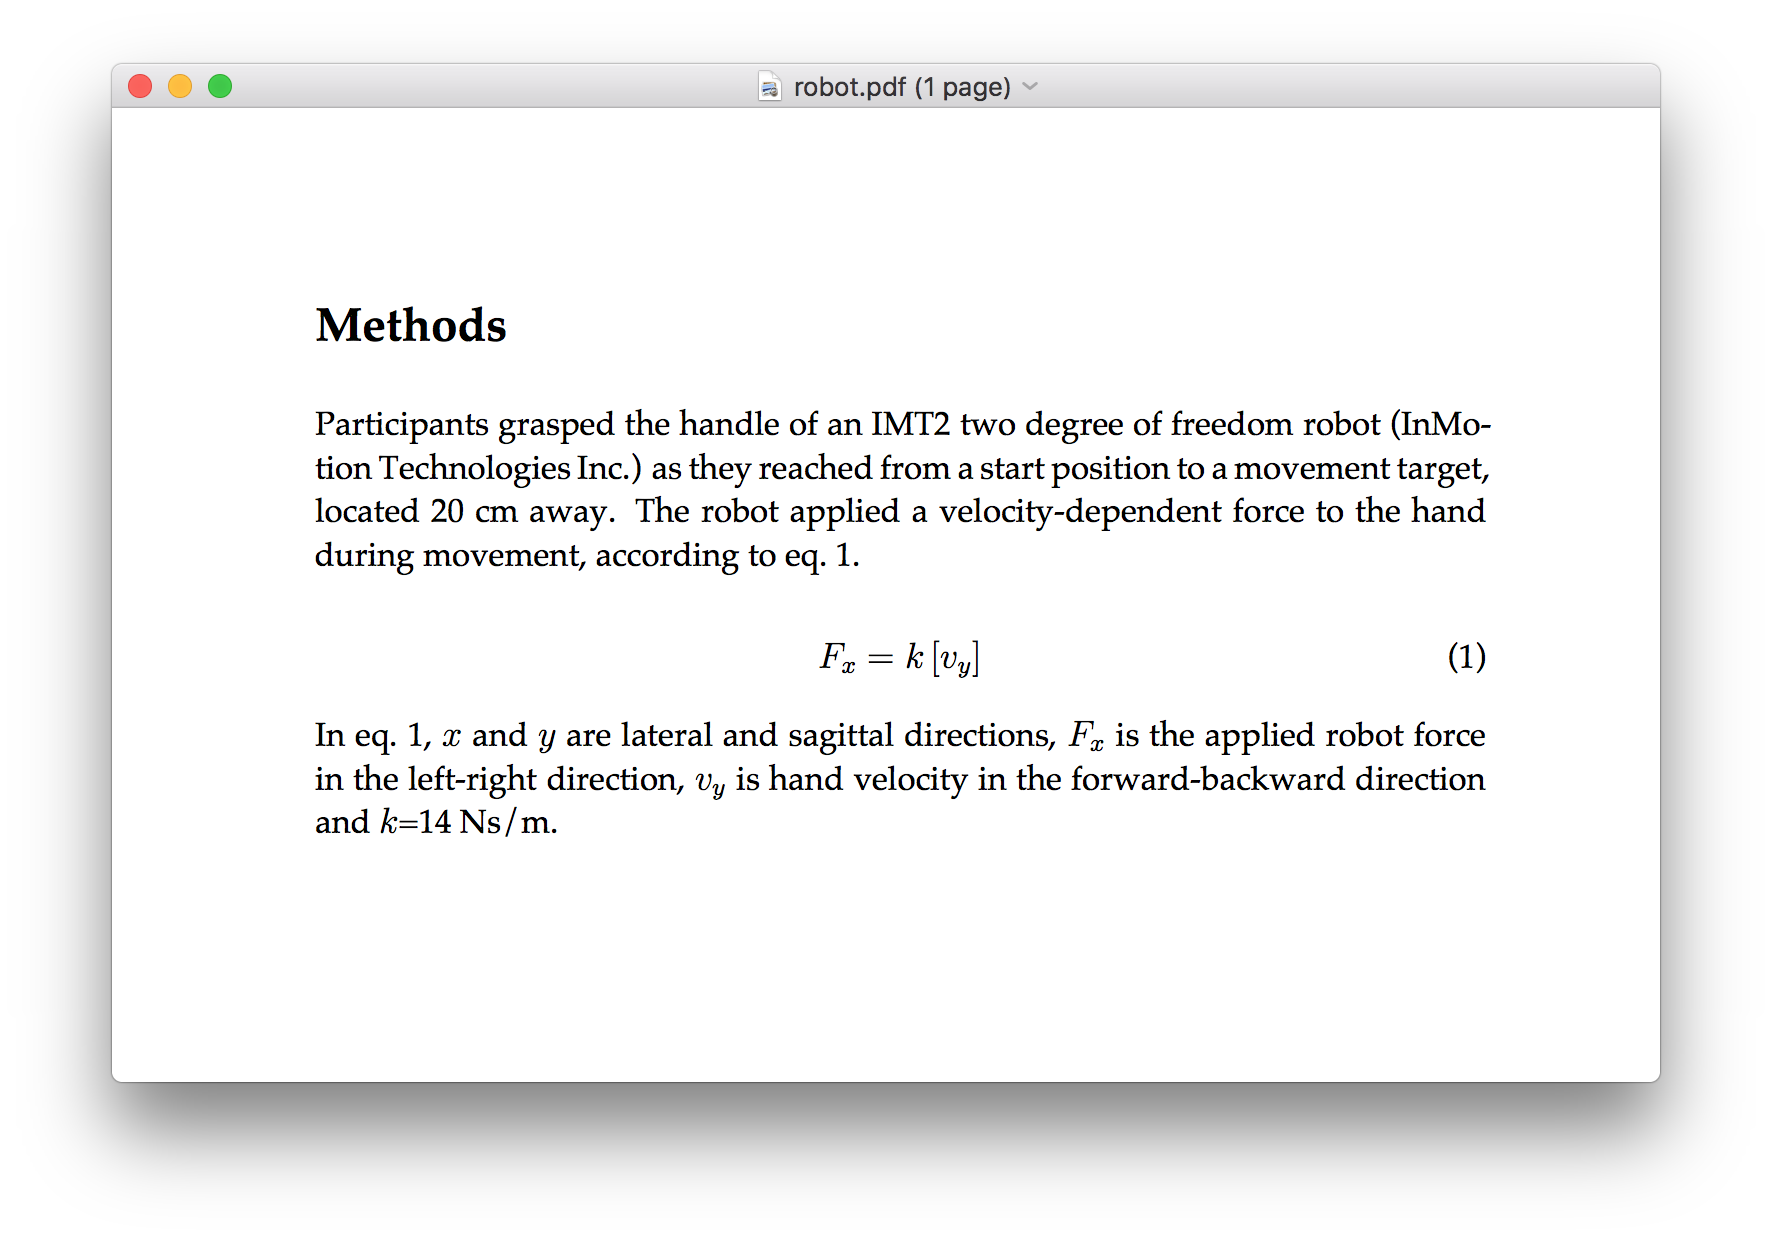
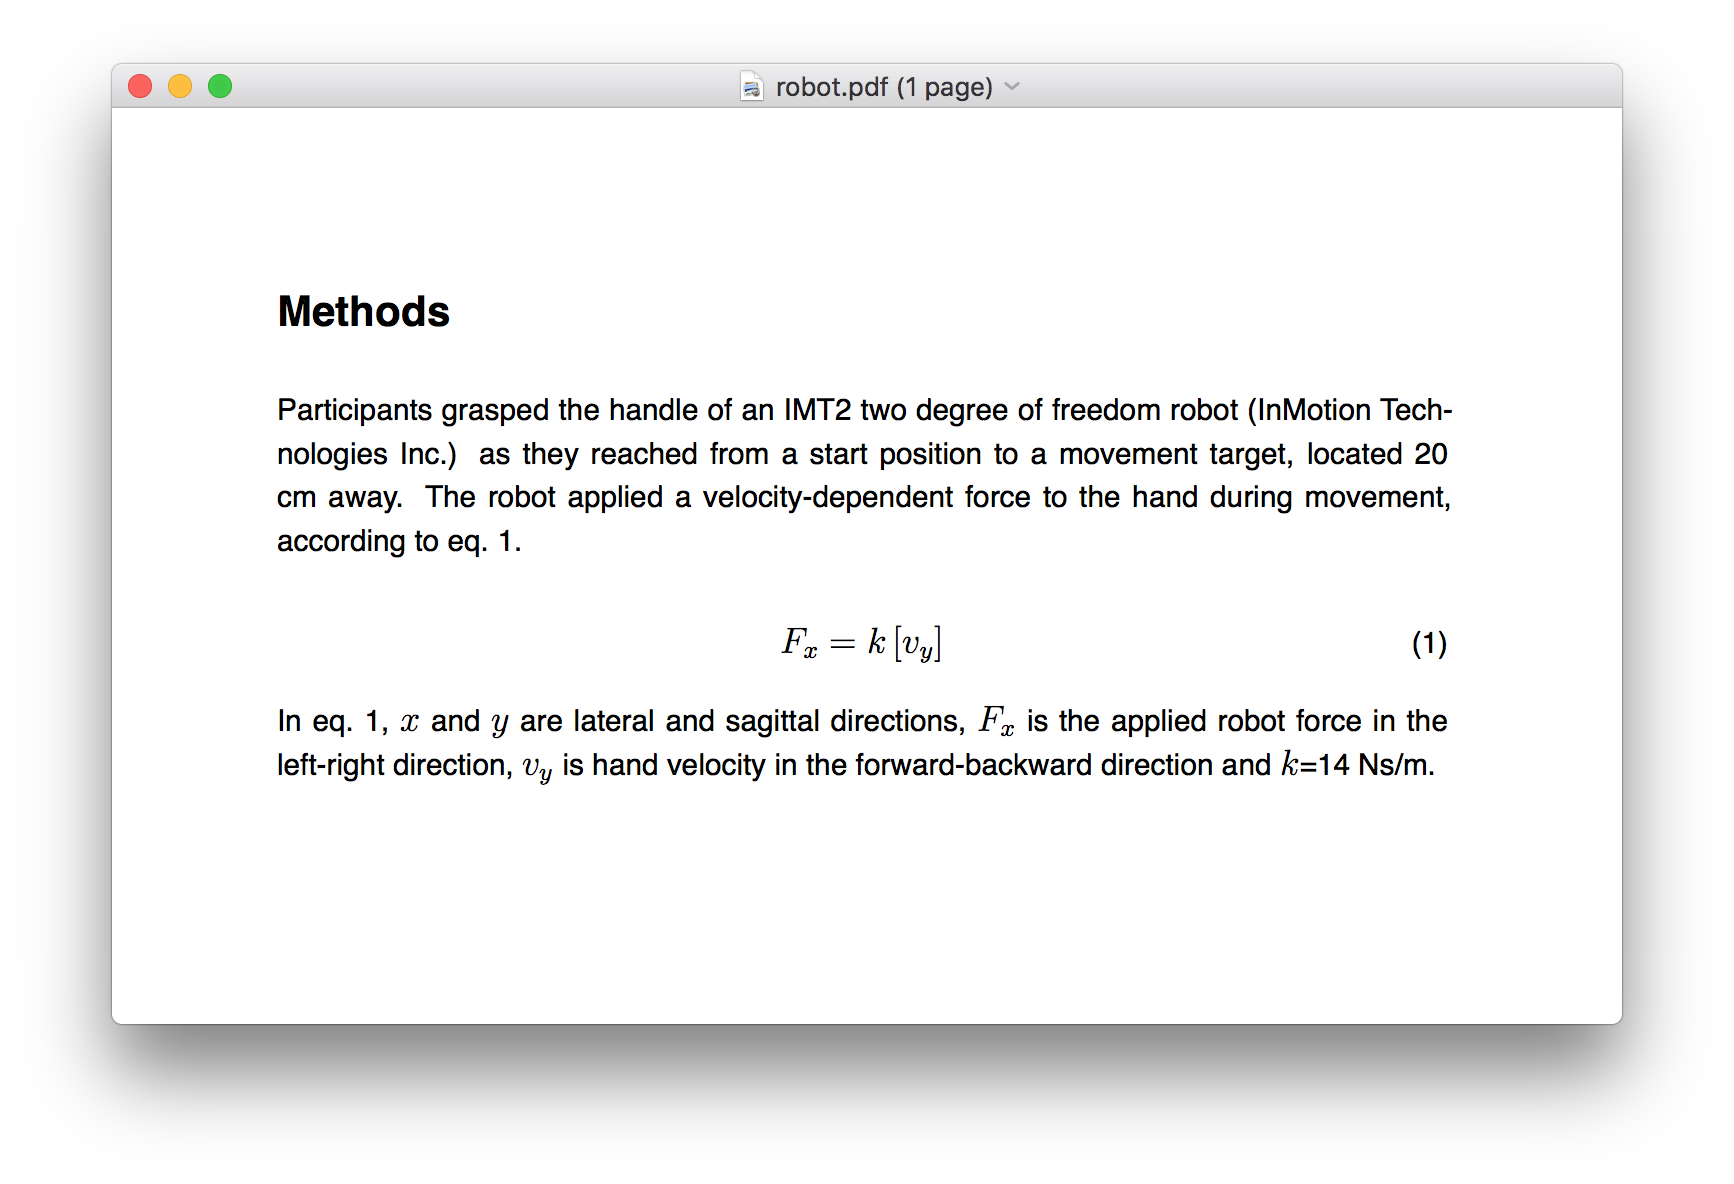
more

diff --git a/README.md b/README.md
@@ -187,15 +187,18 @@ pandoc -D latex > template.latex
 
 and then opening the `template.latex` file you just created. It looks crazy if you've never seen LaTeX code before, and probably still looks icky even if you have. Pandoc has inserted a number of *variables* into the LaTeX document that lets you control various aspects of the final pdf output, using command-line arguments to Pandoc.
 
-So for example to change the font to Palatino, and to use 12pt instead of the default Computer Modern 10pt font, we can issue the Pandoc command like so:
+So for example to change the font to Helvetica, and to use 12pt instead of the default Computer Modern 10pt font, we can issue the Pandoc command like so:
 
 ```
-pandoc robot.md --filter pandoc-crossref -V mainfont=Palatino -V fontsize=12pt --latex-engine=xelatex -o robot.pdf
+pandoc robot.md --filter pandoc-crossref -V mainfont=Helvetica \
+-V fontsize=12pt --latex-engine=xelatex -o robot.pdf
 ```
 
 Now our document looks like this:
 
 ![robot2.pdf](images/robot2.png)
+
+Our font is now Helvetica and the size is 12pt.
 
 
 
